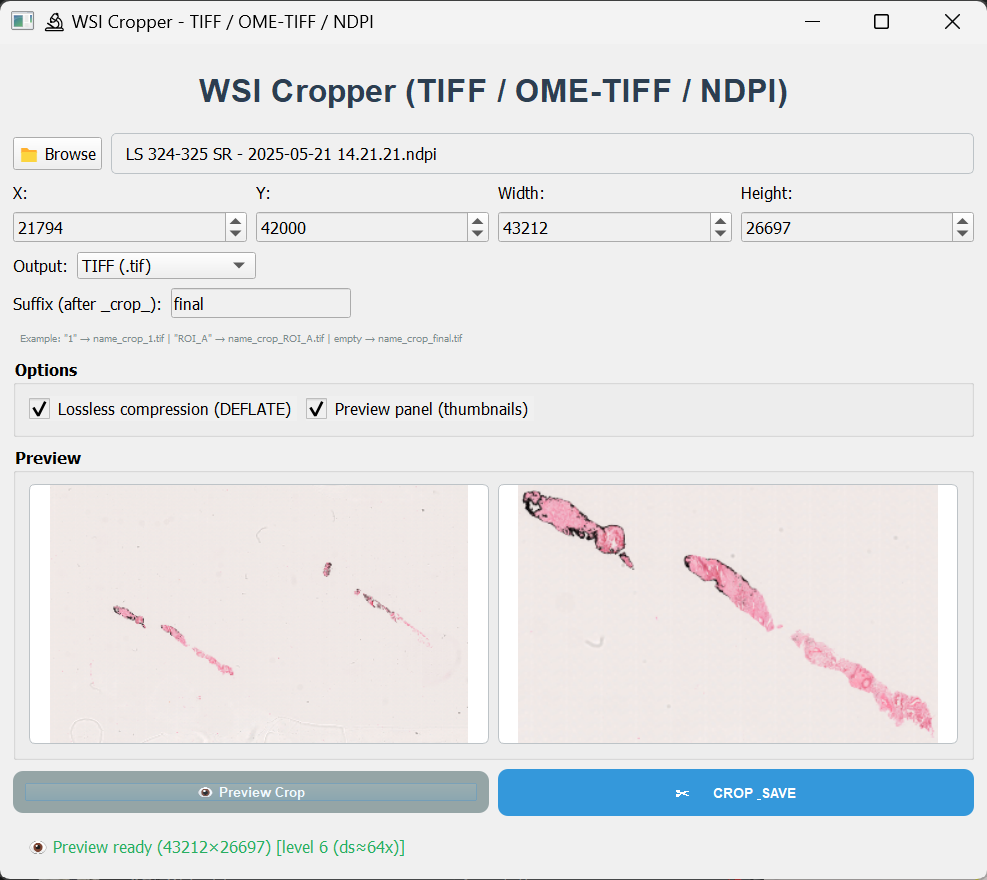
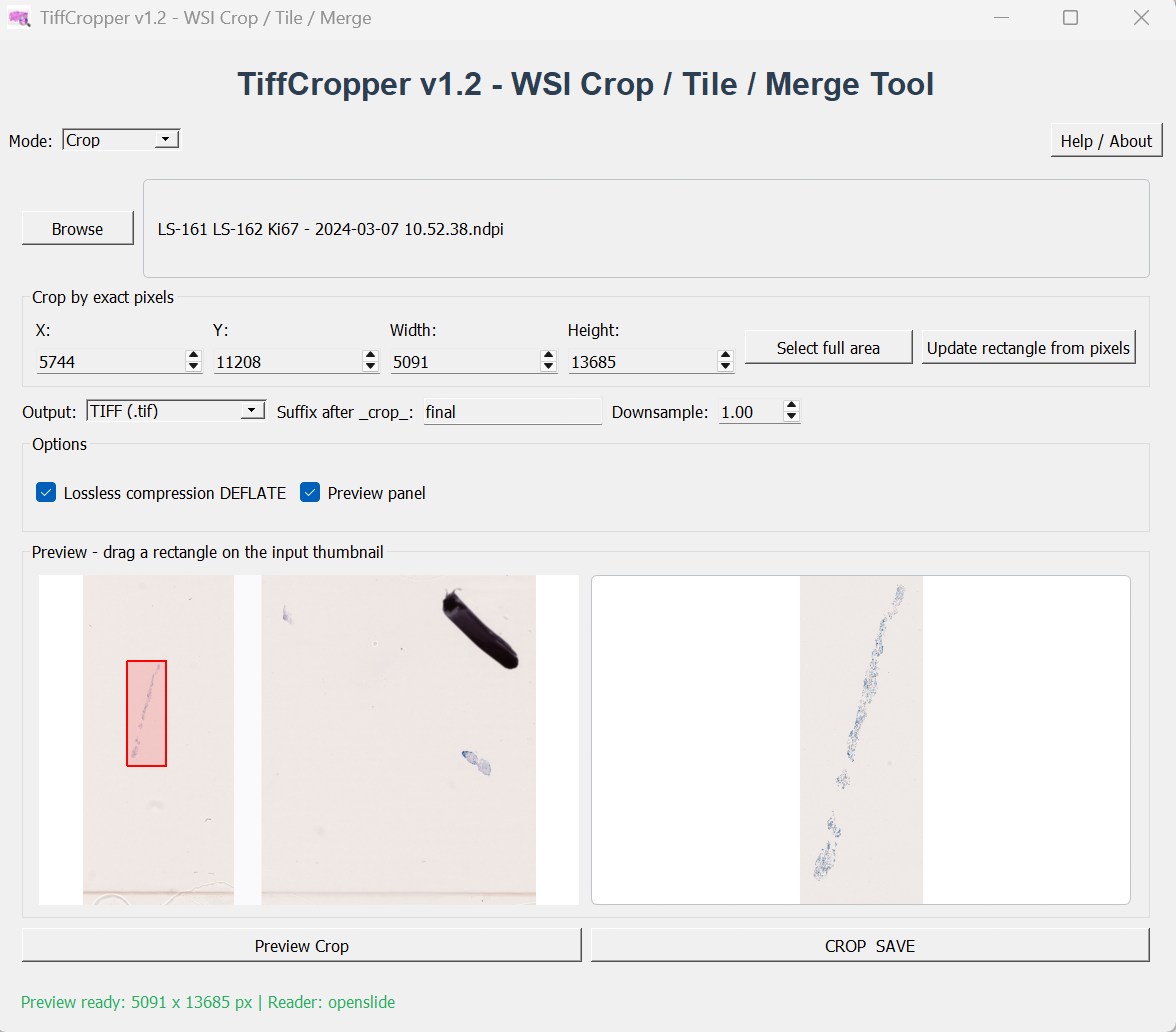
Update Cropper info

diff --git a/tools/tiffcropper.html b/tools/tiffcropper.html
@@ -35,12 +35,18 @@
     <section class="section">
       <div class="card">
         <h1 class="h1" style="font-size:2.2rem;">TiffCropper</h1>
-        <p class="lead">Standalone Windows application to extract high-resolution ROIs from large TIFF microscopy images while preserving calibration metadata.</p>
+        <p class="lead">
+          Standalone application for cropping, tiling, and merging high-resolution whole-slide images and large microscopy files while preserving image metadata and spatial calibration.
+        </p>
 
         <div class="tool-meta">
           <span class="tag">Windows 10/11</span>
-          <span class="tag">TIFF/WSI</span>
-          <span class="tag">ROI</span>
+          <span class="tag">Linux</span>
+          <span class="tag">TIFF</span>
+          <span class="tag">OME-TIFF</span>
+          <span class="tag">NDPI</span>
+          <span class="tag">WSI</span>
+          <span class="tag">Crop / Tile / Merge</span>
           <span class="tag">No Python required</span>
         </div>
 
@@ -59,6 +65,7 @@
              Download
           </a>
         </div>
+      </div>
     </section>
 
     <section class="section">
@@ -66,41 +73,87 @@
         <div class="card">
           <h2>Overview</h2>
           <p class="small">
-            Designed for digital histopathology researchers who need precise crops from large TIFF files,
-            keeping calibration metadata (resolution, physical size) intact.
+            TiffCropper is designed for digital pathology and microscopy workflows requiring precise ROI extraction,
+            tile generation, and tile-based reconstruction from very large image files. Despite its name, the tool is
+            not limited to standard TIFF images and supports common whole-slide image formats such as TIFF, OME-TIFF,
+            and NDPI.
           </p>
+          <p class="small">
+            The application aims to preserve relevant metadata, including resolution information and physical pixel
+            size when available, making the output suitable for downstream analysis in digital pathology, image
+            processing, and computational workflows.
+          </p>
+
           <hr class="sep"/>
+
           <h2>Key features</h2>
           <ul class="small">
-            <li>Browse any .tif/.tiff file</li>
-            <li>Coordinate-based ROI input (X, Y, Width, Height)</li>
-            <li>Custom suffix for output naming</li>
-            <li>Portable executable (no installation)</li>
+            <li>Open large TIFF, OME-TIFF, and NDPI whole-slide images</li>
+            <li>Coordinate-based ROI cropping using X, Y, Width, and Height</li>
+            <li>Tile large images into user-defined rows and columns</li>
+            <li>Merge previously generated tiles back into a reconstructed image</li>
+            <li>Preserve spatial calibration and physical pixel size when available</li>
+            <li>Export OME-TIFF with metadata preservation</li>
+            <li>Optional lossless DEFLATE compression</li>
+            <li>BigTIFF output support for large regions</li>
+            <li>Pyramid-aware preview for efficient navigation of large images</li>
+            <li>Standalone executable; no Python installation required</li>
           </ul>
         </div>
 
         <div class="card">
           <h2>Quick start</h2>
           <ol class="small">
-            <li>Click <b>Browse TIFF</b> and select a .tif/.tiff file.</li>
-            <li>Enter ROI coordinates: X, Y, Width, Height.</li>
-            <li>Set a suffix (optional) and click <b>CROP &amp; SAVE</b>.</li>
+            <li>Open the application and select a supported image file.</li>
+            <li>Use the preview to inspect the image and define the target region.</li>
+            <li>Enter ROI coordinates: X, Y, Width, and Height.</li>
+            <li>Select the desired output mode: crop, tile, or merge.</li>
+            <li>Choose the output format and compression options when available.</li>
+            <li>Click the corresponding action button to generate the output.</li>
           </ol>
-          <p class="small">Output is saved in the same folder as the original file, using: <code>{original}_crop_{suffix}.tif</code></p>
+          <p class="small">
+            Cropped outputs and generated tiles are saved with structured filenames to make downstream organization
+            and reconstruction easier.
+          </p>
+
+          <hr class="sep"/>
+
+          <h2>Typical use cases</h2>
+          <ul class="small">
+            <li>Extract high-resolution regions of interest from whole-slide images</li>
+            <li>Generate tiles for deep learning or image analysis workflows</li>
+            <li>Split very large images into smaller manageable files</li>
+            <li>Reconstruct tiled regions after external processing</li>
+            <li>Preserve microscopy calibration metadata for quantitative analysis</li>
+          </ul>
         </div>
 
         <div class="card">
           <h2>Coordinate system</h2>
           <p class="small">
-            The image is treated as a matrix: <b>X</b> is the column index (left→right), <b>Y</b> is the row index (top→bottom).
-            Width/Height define the ROI size in pixels.
+            Images are treated as pixel matrices. <b>X</b> corresponds to the horizontal coordinate
+            or column index from left to right, while <b>Y</b> corresponds to the vertical coordinate
+            or row index from top to bottom. Width and Height define the ROI size in pixels.
           </p>
+
           <hr class="sep"/>
+
+          <h2>Output formats</h2>
+          <ul class="small">
+            <li><b>TIFF:</b> standard output for cropped regions and tiles</li>
+            <li><b>OME-TIFF:</b> recommended when physical calibration metadata should be preserved</li>
+            <li><b>BigTIFF:</b> used when output files exceed standard TIFF size limits</li>
+          </ul>
+
+          <hr class="sep"/>
+
           <h2>Troubleshooting</h2>
           <ul class="small">
-            <li><b>No file selected</b>: ensure the TIFF is not open in ImageJ/Fiji.</li>
-            <li><b>Cannot read dimensions</b>: verify the file is a valid TIFF.</li>
-            <li><b>Access denied</b>: run as Administrator or move the source to a writable folder.</li>
+            <li><b>No file selected:</b> verify that the input path is valid and accessible.</li>
+            <li><b>Cannot read dimensions:</b> confirm that the file is a valid TIFF, OME-TIFF, or NDPI image.</li>
+            <li><b>Access denied:</b> move the source image to a writable folder or check file permissions.</li>
+            <li><b>Large output fails:</b> enable BigTIFF output or reduce the ROI/tile size.</li>
+            <li><b>Linux dependency error:</b> use the official release package or rebuild the app with bundled image codecs.</li>
           </ul>
         </div>
       </div>
@@ -108,9 +161,23 @@
 
     <section class="section">
       <div class="card">
+        <h2>Why the name TiffCropper?</h2>
+        <p class="small">
+          TiffCropper was originally developed for cropping large TIFF microscopy images. The current version has
+          expanded beyond simple TIFF cropping and now supports whole-slide image workflows including ROI extraction,
+          tiling, merging, OME-TIFF export, and NDPI input support. The original name is maintained for continuity,
+          while the tool now functions as a broader WSI crop, tile, and merge utility.
+        </p>
+      </div>
+    </section>
+
+    <section class="section">
+      <div class="card">
         <h2>Screenshots</h2>
-        <p class="small">Visualization of the tool.</p>
-        <img src="/assets/images/tools/WSICropper.png" style="width:95%; border-radius:14px; border:1px solid var(--line);" alt="TiffCropper UI"/>
+        <p class="small">Visualization of the TiffCropper interface.</p>
+        <img src="/assets/images/tools/WSICropper.png"
+             style="width:95%; border-radius:14px; border:1px solid var(--line);"
+             alt="TiffCropper user interface"/>
       </div>
     </section>
   </main>
